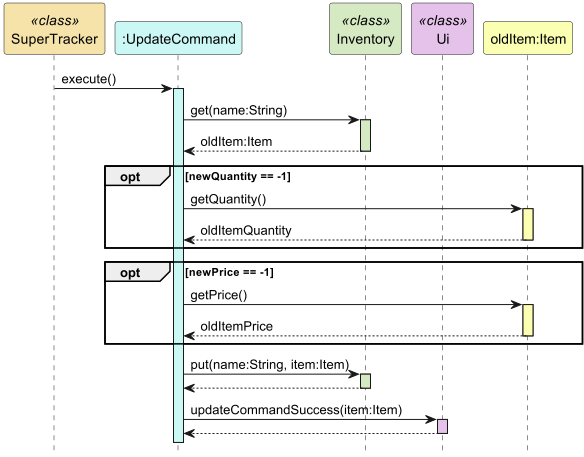
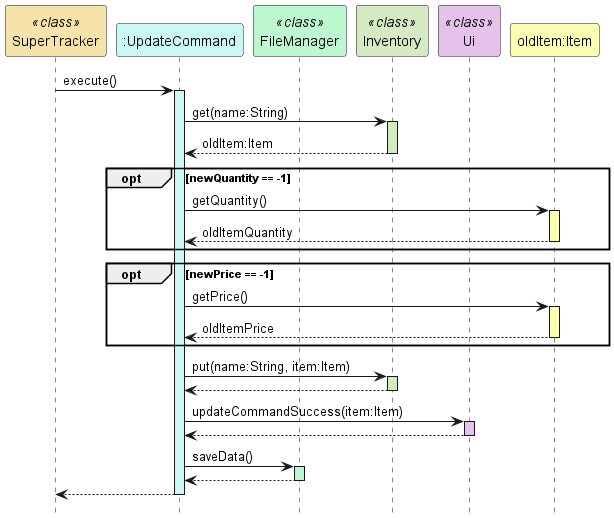
Update developer guide

Changed region(s): [[0.0, 0.0, 1.0, 0.9803], [0.0925, 0.9497, 0.1233, 0.9803]]

diff --git a/src/main/java/supertracker/command/FindCommand.java b/src/main/java/supertracker/command/FindCommand.java
@@ -21,7 +21,7 @@ public class FindCommand implements Command {
 
         Ui.findIntro();
         for (Item item : items) {
-            if(item.getName().contains(name)) {
+            if (item.getName().contains(name)) {
                 Ui.foundItem(item, index);
                 index++;
                 isFound = true;

diff --git a/docs/DeveloperGuide.md b/docs/DeveloperGuide.md
@@ -119,7 +119,7 @@ The following sequence diagram shows the execution of a NewCommand
 
 1. The `SuperTracker` class calls the `execute` method of `NewCommand`
 2. A new `Item` object with the given parameters (name, quantity, price, expiry date) is created and returned to `NewCommand`
-3. The `put` method of the `Inventory` class is called to add the newly created item into the `inventory`
+3. The `put` method of the `Inventory` class is called to add the newly created item into the inventory
 4. The `newCommandSuccess` method of the `Ui` class is called to notify that `NewCommand` has been successfully executed
 5. The `saveData` method of the `FileManager` class is called to save the new item added onto the hard disk
 
@@ -147,8 +147,9 @@ updated). If the condition holds true it retrieves the item's previous quantity.
 4. There is another optional check for newPrice being -1 (an invalid value that indicates that price should not be
    updated). If the condition holds true it retrieves the item's previous price.
 5. A new `Item` object with the given parameters (name, new quantity, new price, old expiry date) is created and returned to `UpdateCommand`
-6. The `put` method of the `Inventory` class is called to update the item in the `inventory`
+6. The `put` method of the `Inventory` class is called to update the item in the inventory
 7. The `UpdateCommandSuccess` method of the `Ui` class is called to notify that `UpdateCommand` has been successfully executed
+8. The `saveData` method of the `FileManager` class is called to save updated item onto the hard disk
 
 ### Find Command
 The following is a class diagram of the FindCommand and its relevant dependencies
@@ -161,7 +162,7 @@ A FindCommand instance is created by the `parseFindCommand` method called by Par
 - `Inventory`: For getting the inventory list of items
 - `Ui`: To notify the user about the successful execution of `FindCommand`
 
-The following sequence diagram shows the execution of a NewCommand
+The following sequence diagram shows the execution of a NewCommand  
 ![FindCommandSequence](uml-diagrams/FindCommandSequence.png)
 
 1. The `SuperTracker` class calls the `execute` method of `FindCommand`
